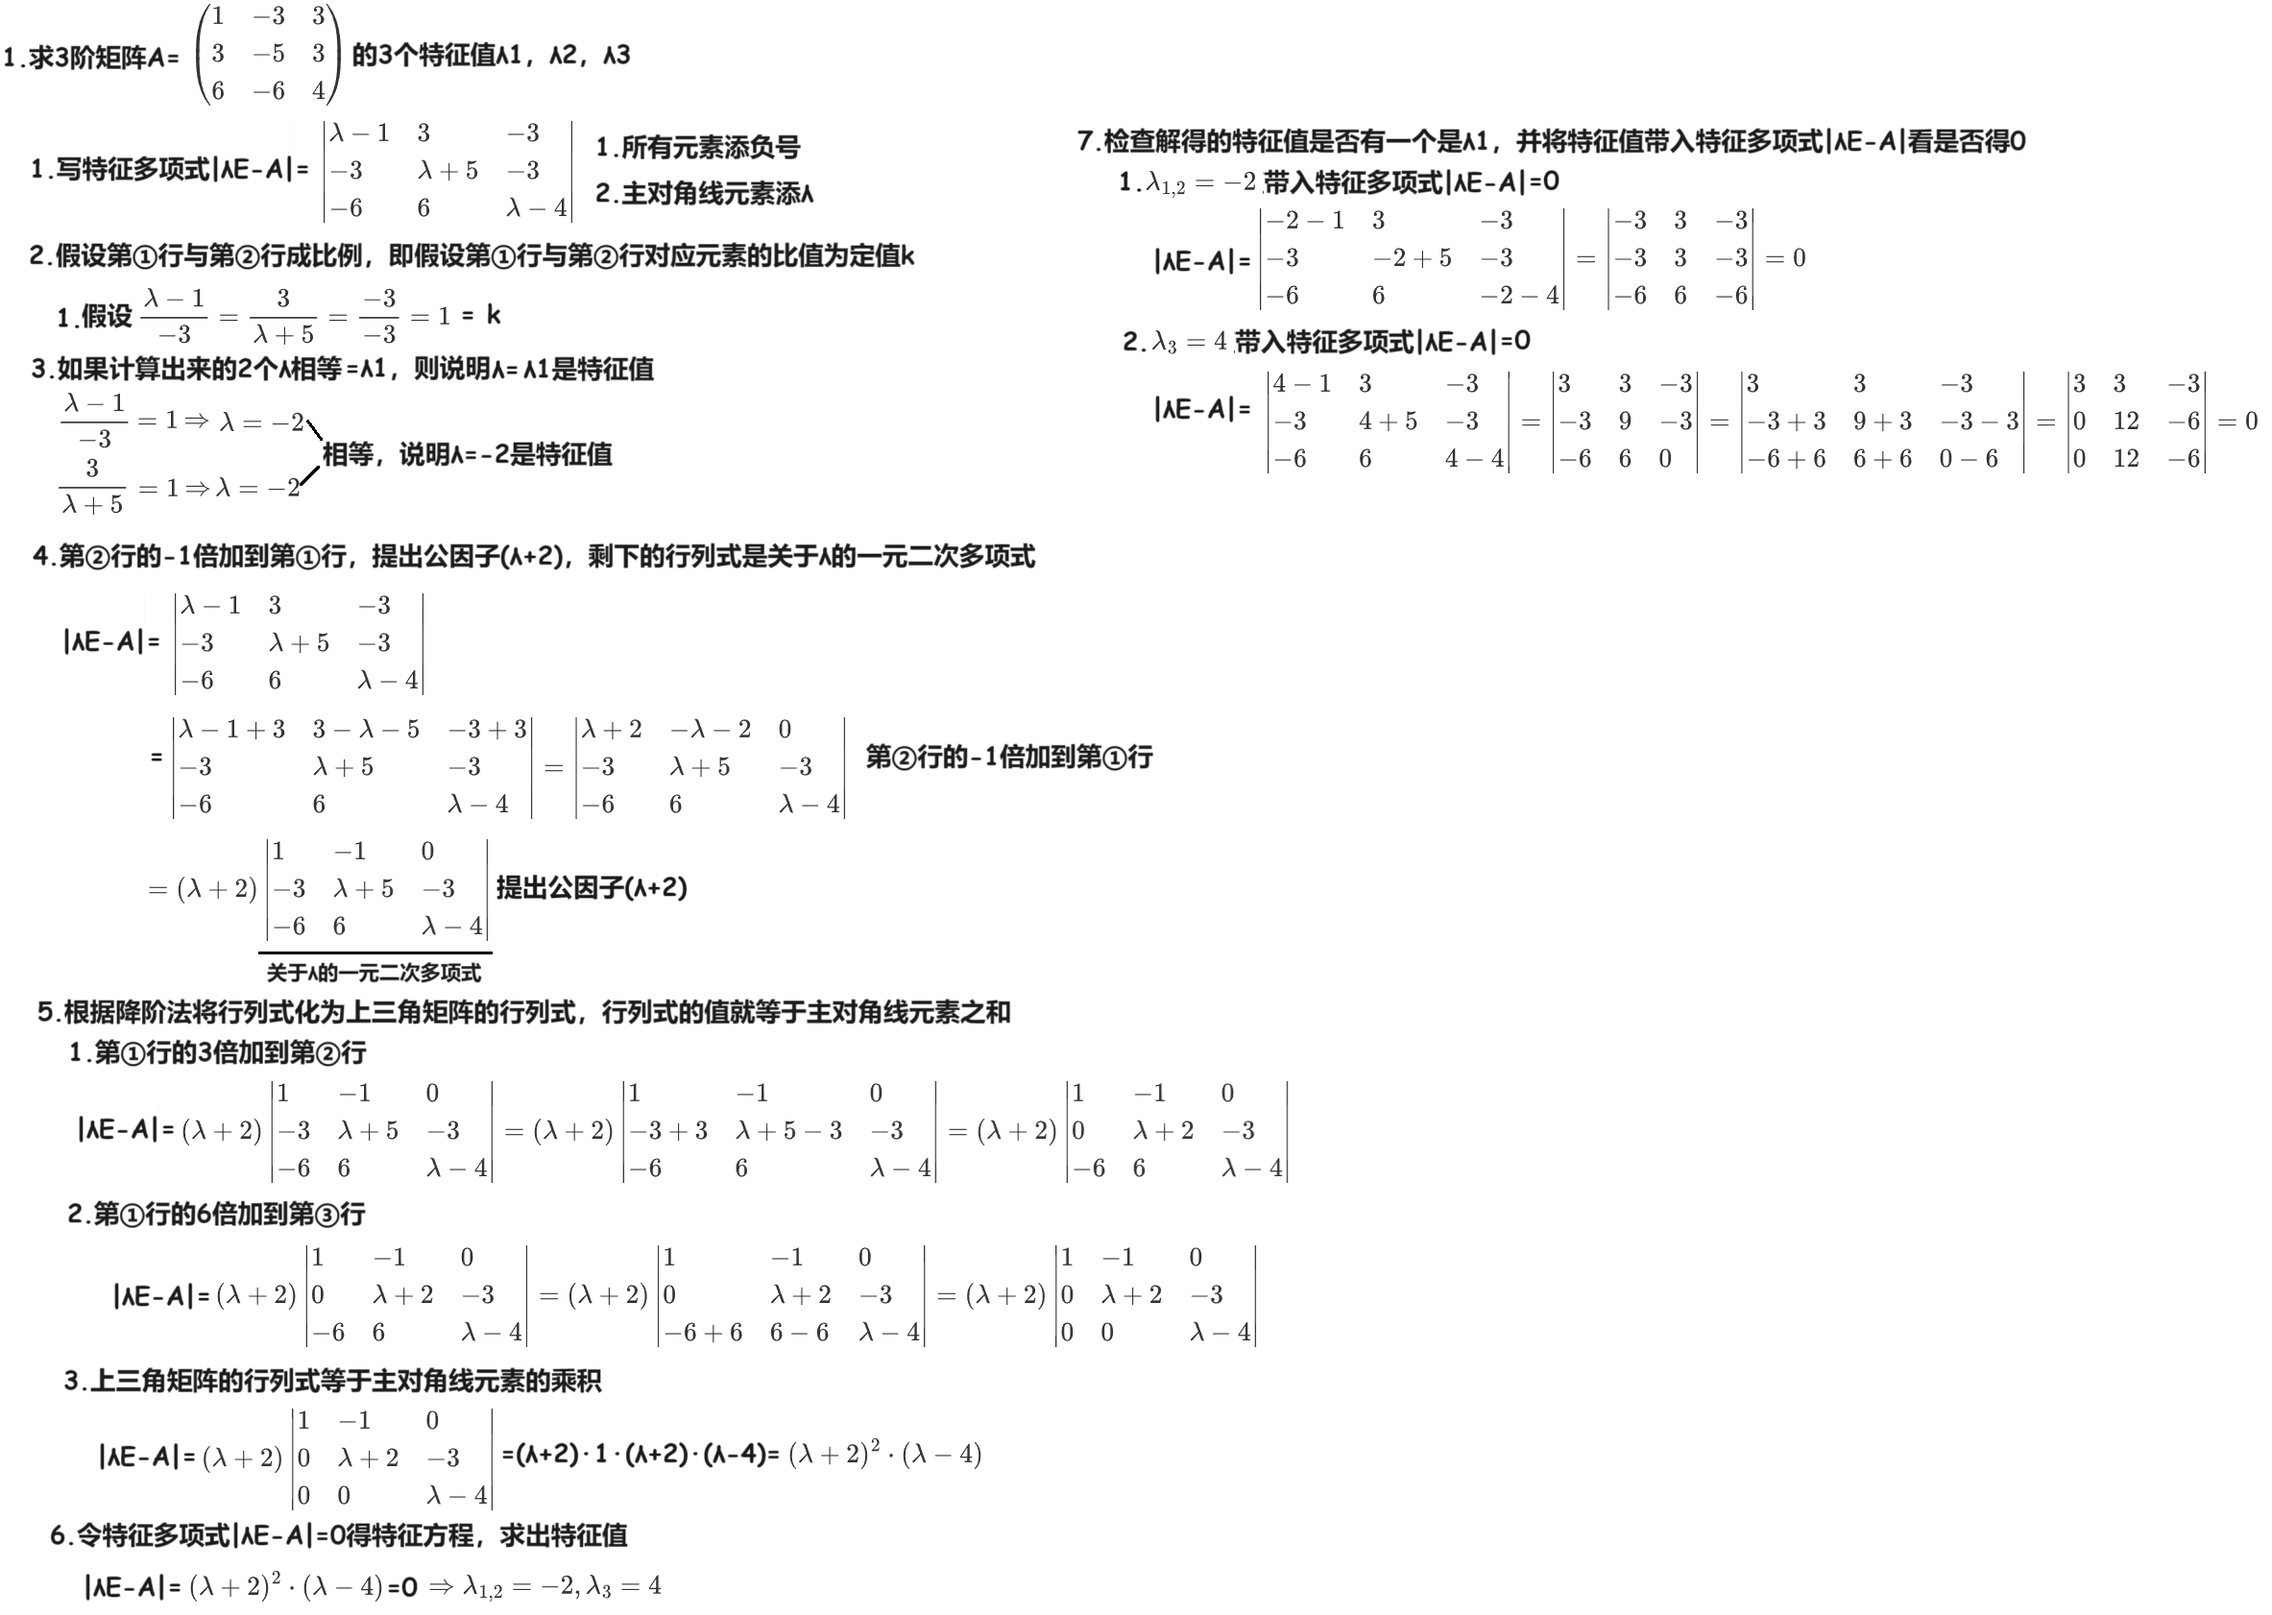
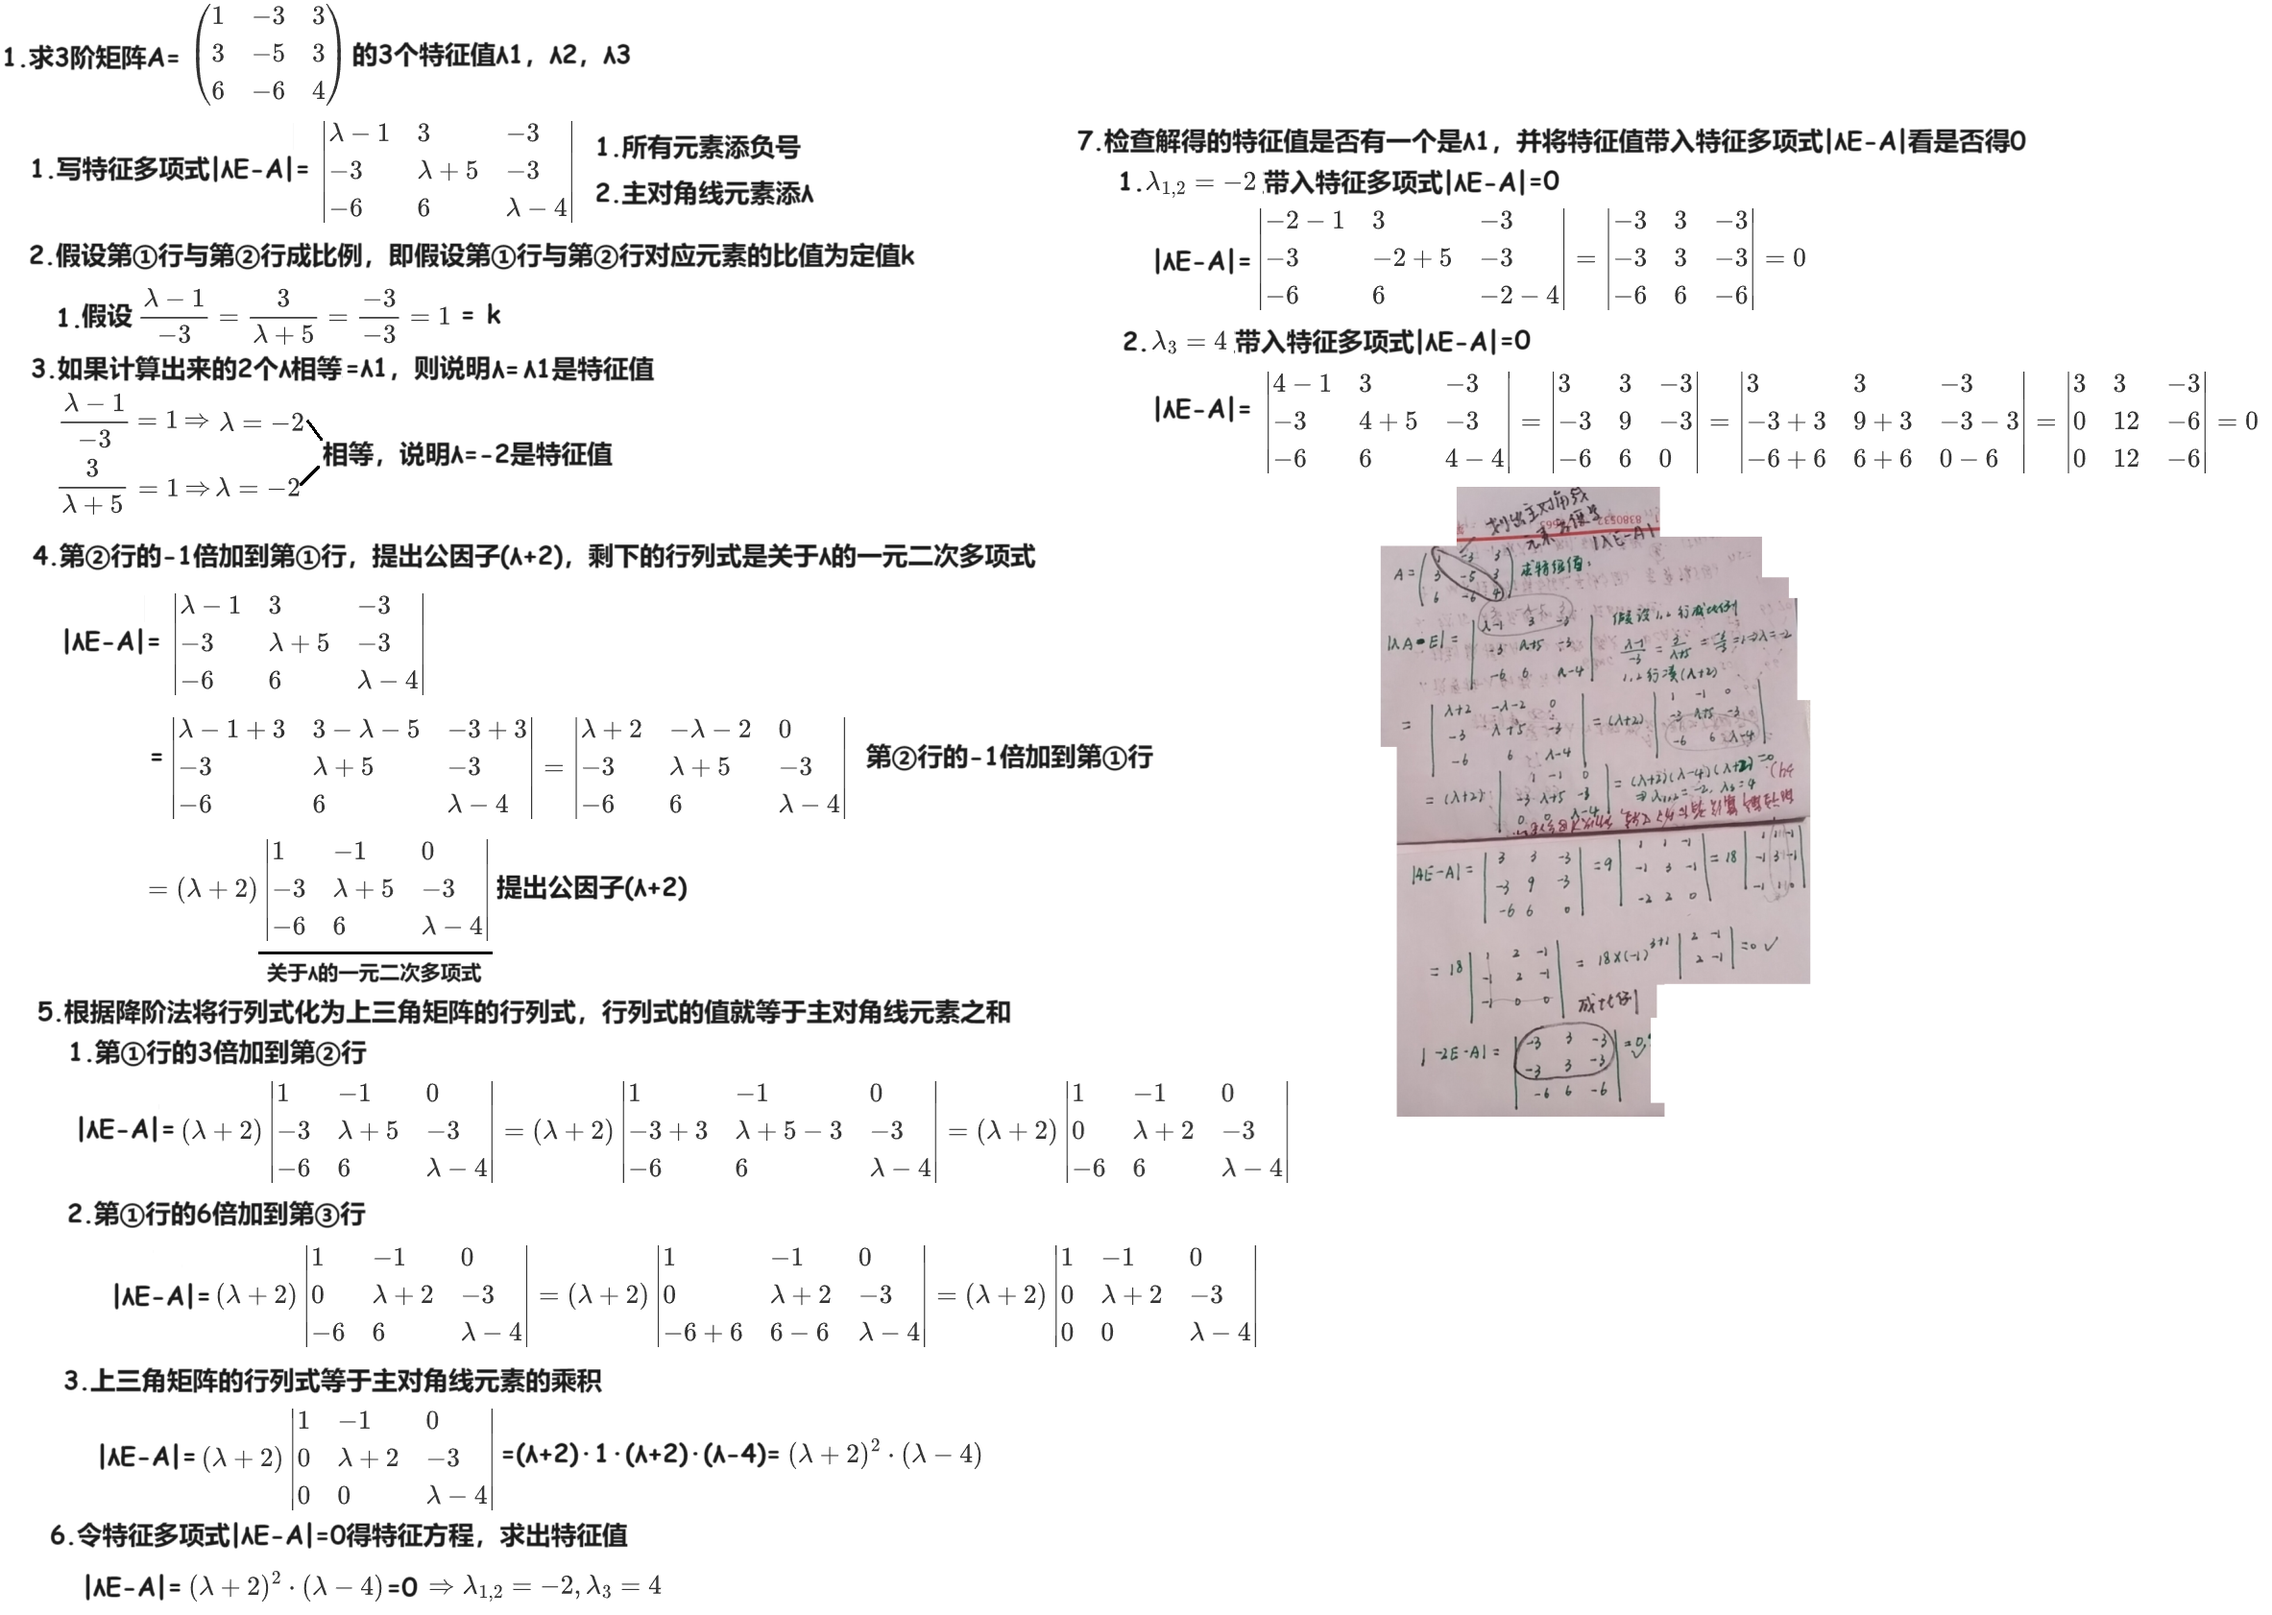
240322

Changed region(s): [[0.5862, 0.2782, 0.8022, 0.7111]]

diff --git a/02 线代/01 题集/02 专题/02 求特征值 特征向量 10/02 题集 10/02 【B站 成大器young】快速求特征值 8/01 【题集 4】求矩阵特征值的思路1 假设两行成比例/01 求特征值思路1 假设两行成比例 240322/02 Doc.md b/02 线代/01 题集/02 专题/02 求特征值 特征向量 10/02 题集 10/02 【B站 成大器young】快速求特征值 8/01 【题集 4】求矩阵特征值的思路1 假设两行成比例/01 求特征值思路1 假设两行成比例 240322/02 Doc.md
@@ -14,5 +14,5 @@
 
 # 02 答案
 
-<img src="https://cvp.oss-cn-shanghai.aliyuncs.com/picgo/202403031506135.png" alt="image-20240303150653883" style="zoom:50%;" />
+<img src="https://cvp.oss-cn-shanghai.aliyuncs.com/picgo/202403221646547.png" alt="image-20240322164638150" style="zoom:50%;" />
 
